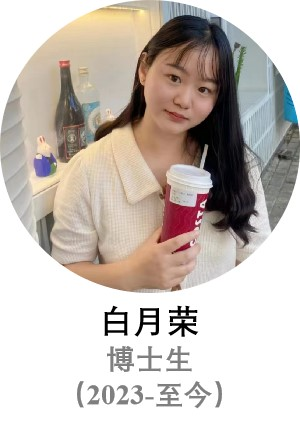
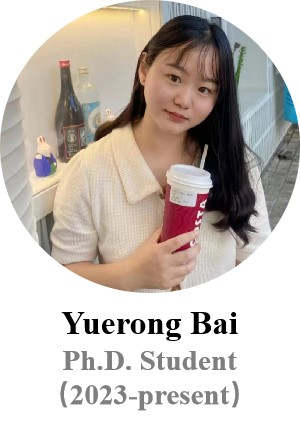
1

Changed region(s): [[0.18, 0.7085, 0.81, 0.9858]]

diff --git a/index.md b/index.md
@@ -2,17 +2,23 @@
 layout: page
 ---
 
-# 邱敏实验室 
+# Qiu Lab 
 <div>
 <img src="/images/teams/group1.jpg" class="floatpic" width="1500" height="800">
 </div>>
-欢迎访问 **邱敏实验室**.
 
-我们致力于开发基于核酸的治疗方法，并通过合成脂质纳米粒子来实现这一目标。我们的研究团队由充满热情和创新精神的科学家组成，专注于探索前沿生物技术，推动医学进步。无论是RNA疫苗、基因治疗还是其他核酸药物，我们都在不断努力，为改善人类健康做出贡献。欢迎访问我们的实验室主页，了解更多关于我们最新研究进展和成果的信息。
+
+We are dedicated to developing nucleic acid-based therapies, achieving this goal through the synthesis of lipid nanoparticles. Our research team, composed of passionate and innovative scientists, focuses on exploring cutting-edge biotechnology to advance medical progress. Whether it's RNA vaccines, gene therapy, or other nucleic acid drugs, we are constantly striving to contribute to improving human health. Visit our lab's homepage to learn more about our latest research developments and achievements.
+
+
+
+
+
+
 
 ---
 
-## 重点成果
+## Highlight
 <head>
     <meta charset="UTF-8">
     <meta name="viewport" content="width=device-width, initial-scale=1.0">
@@ -27,7 +33,7 @@ layout: page
         }
         .image {
             width: 100%;
-            max-width: 2000px; /* 调整图像的最大宽度 */
+            max-width: 200px; /* 调整图像的最大宽度 */
             height: auto;
             margin: 10px;
             border: 1px solid #ccc;
@@ -68,32 +74,4 @@ layout: page
 </body>
 
 
-
-[//]: # (- Qiu, M.#; Tang, Y.#,*, Chen, J. #; Muriph, R.; Ye, Z.; Huang, C.; Evans, J.; Henske, E.*; Xu, Q.*, Lung-selected mRNA delivery of synthetic lipid nanoparticles for the treatment of pulmonary lymphangioleiomyomatosis. Proc. Natl. Acad. Sci. U. S. A. 2022, 119, e2116271119. ESI Highly Cited Paper.)
-
-[//]: # (- Qiu, M.#; Glass, Z.#; Chen, J.; Haas, M.; Jin, X.; Zhao, X.; Rui, X.; Ye, Z.; Li, Y.; Zhang, F; Xu, Q.*, Lipid nanoparticle-mediated codelivery of Cas9 mRNA and single guide RNA achieves liver-specific in vivo genome editing of Angptl3. Proc. Natl. Acad. Sci. U. S. A. 2021, 118, e2020401118. ESI Highly Cited Paper. )
-[//]: # (## 最新动态)
-
-[//]: # ()
-[//]: # (- **05-2024：**xxx论文发表 🎉)
-
-[//]: # ()
-
-[//]: # (- **April 2024：**Our work *BLEGuard* has been accepted to [MobiSys 2024]&#40;https://www.sigmobile.org/mobisys/2024/&#41; as a poster paper. See you in Japan!)
-
-[//]: # (- **March 2024：**Very excited to get a MPhil offer from Engineering department at Cambridge University!)
-
-[//]: # (- **Dec 2023：**Very excited to be selected as [AAAI-24 UC Scholar]&#40;https://aaai.org/aaai-conference/undergraduate-consortium-program/&#41;. See you in Canada!)
-
-[//]: # (- **Dec 2023：**Got a MSc offer from the physics department of Imperial College London.)
-
-[//]: # (- **Aug 2023：**Happy to be awarded the FEPG Scholarship.)
-
-[//]: # (- **May 2023：**Happy to be awarded the XiamenAir Scholarship.)
-
-[//]: # (- **May 2023：**Collected the Finalist Award in MCM 2023 &#40;Top 1%&#41;.)
-
-[//]: # (- **Jun 2022：**Started research programme at [Cambridge AI Group]&#40;https://www.cl.cam.ac.uk/research/ai/&#41;, advised by Prof. Pietro Liò.)
-
-[//]: # (<blockquote class="twitter-tweet"><p lang="en" dir="ltr">Thrilled to be an AAAI-UC Scholar at <a href="https://twitter.com/hashtag/AAAI24?src=hash&amp;ref_src=twsrc%5Etfw">#AAAI24</a>, thanks to <a href="https://twitter.com/hashtag/AAAI?src=hash&amp;ref_src=twsrc%5Etfw">#AAAI</a> &amp; <a href="https://twitter.com/hashtag/GoogleExploreCSR?src=hash&amp;ref_src=twsrc%5Etfw">#GoogleExploreCSR</a> for the sponsorship. Grateful for the knowledge gained and new friendships formed.<br><br>Wonderful trip in Vancouver. Looking forward to staying connected with all.<a href="https://twitter.com/hashtag/AAAI24?src=hash&amp;ref_src=twsrc%5Etfw">#AAAI24</a> <a href="https://twitter.com/hashtag/Vancouver?src=hash&amp;ref_src=twsrc%5Etfw">#Vancouver</a> <a href="https://twitter.com/hashtag/GoogleExploreCSR?src=hash&amp;ref_src=twsrc%5Etfw">#GoogleExploreCSR</a> <a href="https://t.co/wUQUp8XlSM">pic.twitter.com/wUQUp8XlSM</a></p>&mdash; Hanlin CAI &#40;seeking a PhD position 2025&#41; &#40;@lancecai2002&#41; <a href="https://twitter.com/lancecai2002/status/1762210025173344260?ref_src=twsrc%5Etfw">February 26, 2024</a></blockquote> <script async src="https://platform.twitter.com/widgets.js" charset="utf-8"></script>)
 

diff --git a/awards.md b/awards.md
@@ -1,12 +1,11 @@
 ---
 layout: page
 permalink: /awards/index.html
-title: 研究方向
+title: Research
 ---
 <head>
     <meta charset="UTF-8">
     <meta name="viewport" content="width=device-width, initial-scale=1.0">
-    <title>实验室研究方向</title>
     <style>
         body {
             font-family: Arial, sans-serif;
@@ -21,7 +20,7 @@ title: 研究方向
             text-align: center;
         }
         .research-direction {
-            margin-bottom: 30px;
+            margin-bottom: 26px;
         }
         .research-direction h2 {
             color: #007bff;
@@ -34,25 +33,26 @@ title: 研究方向
 </head>
 <body>
     <div>
-        <h1>实验室研究方向</h1>
+        <h1>Research</h1>
         <img src="/images/lnp-sc.jpg" alt="lnp">
     </div>
     <div class="research-section">
         <div class="research-direction">
-        <p>我们实验室主要从事核酸纳米药物的研发，通过开发器官/组织/细胞靶向性纳米载体，将核酸（mRNA，CRISPR-Cas9，siRNA，DNA等）精准递送到病灶部位，探索核酸纳米药物在遗传性疾病、代谢性疾病和癌症等重大疾病治疗中的应用研究。主要研究方向包括：</p>
+        <p>The Qiu Lab at Fudan University focuses on the development of the next-generation of non-viral nanoparticle delivery systems and their application in the treatment of a variety of diseases, including cancer and inherited disease. The specific research topics of our lab include:</p>
         </div>
-        <div class="research-direction">
-            <h3>1. 组织和细胞特异性纳米递送系统的设计开发</h3>
-            <p>通过设计和开发脂质纳米颗粒和功能性高分子纳米载体，实现组织和细胞特异性的核酸递送。</p>
-        </div>
-        <div class="research-direction">
-            <h3>2. 核酸靶向递送及生物医学应用</h3>
-            <p>探索各种核酸（如mRNA、DNA、siRNA、CRISPR-Cas基因编辑工具）在疾病治疗中的靶向递送机制和生物医学应用。</p>
-        </div>
-        <div class="research-direction">
-            <h3>3. 纳米蛋白冠的检测分析方法及其化学生物学效应</h3>
-            <p>研究纳米蛋白冠的检测分析方法，探究其在核酸递送过程中的化学生物学效应。</p>
-        </div>
+    <div class="research-direction">
+    <h3>1. Design and Development of Tissue and Cell-Specific Nano Delivery Systems</h3>
+    <p>Designing and developing lipid nanoparticles and functional polymeric nanocarriers to achieve tissue and cell-specific nucleic acid delivery.</p>
     </div>
+    <div class="research-direction">
+    <h3>2. Targeted Delivery of Nucleic Acids and Biomedical Applications</h3>
+    <p>Exploring the mechanisms and biomedical applications of targeted delivery of various nucleic acids (such as mRNA, DNA, siRNA, and CRISPR-Cas gene editing tools) in disease treatment.</p>
+    </div>
+    <div class="research-direction">
+    <h3>3. Detection and Analysis Methods of Nano-Protein Corona and Its Chemobiological Effects</h3>
+    <p>Studying the detection and analysis methods of nano-protein corona and investigating its chemobiological effects in the process of nucleic acid delivery.</p>
+    </div>
+</div>
+
 </body>
 

diff --git a/teams.md b/teams.md
@@ -1,12 +1,12 @@
 ---
 layout: page
 permalink: /teams/index.html
-title: 团队成员
+title: Team
 ---
 
-## 课题组长
+## PRINCIPAL INVESTIGATOR
 <head>
-    <title>课题组长</title>
+    <title>PRINCIPAL INVESTIGATOR</title>
     <style>
         .container {
             display: flex;
@@ -32,16 +32,16 @@ title: 团队成员
     <div class="container">
         <img src="/images/teams/qiumin.jpg" alt="邱敏">
         <div class="text">
-            <h1>邱敏</h1>
-            <p>青年研究员，博士生导师<br>复旦大学人类表型组研究院<br>张江mRNA国际创新中心</p>
+            <h1>Min Qiu</h1>
+            <p>Human Phenome Institute, Fudan University<br>Member, mRNA Innovation and Translation Center<br>
         </div>
     </div>
 </body>
 
-邱敏博士目前是复旦大学人类表型组研究院青年研究员、博士生导师，上海张江mRNA国际创新中心研究团队成员。2013年毕业于青岛科技大学获高分子材料与工程和英语双学士学位；2018年在苏州大学获高分子化学与物理专业博士学位；2018年至2021年在美国塔夫茨大学生物医学工程系从事博士后研究。2021年12月加入复旦大学人类表型组研究院组建核酸纳米药物研究课题组，主要从事新型组织和细胞靶向脂质纳米颗粒的开发及其在生物医学中的应用研究。
+Min Qiu is a principal investigator in the Human Phenome Institute at Fudan University, and member of the mRNA Innovation and Translation Center. He obtained his Doctoral Degree at Soochow University and did his postdoctoral training in the lab of Professor Qiaobing Xu in the department of Biomedical Engineering at Tufts University. In 2021, Dr. Min Qiu joined the Human Phenome Institute, where he runs an interdisciplinary research group focused on developing tissue and/or cell targeting lipid nanoparticles for application to vaccines, gene editing, immuno and cellular therapeutics.
 
 
-## 团队成员 ##
+## Team ##
 
 <style>
     .container2 {
@@ -67,7 +67,7 @@ title: 团队成员
 
 ---
 
-## 成员照片
+## Photos
 <div>
 <img src="/images/teams/group1.jpg" alt="图片1">
 </div>

diff --git a/blogs.md b/blogs.md
@@ -1,13 +1,12 @@
 ---
 layout: page
 permalink: /blogs/index.html
-title: 联系我们
+title: Contact
 ---
 <html lang="zh-CN">
 <head>
     <meta charset="UTF-8">
     <meta name="viewport" content="width=device-width, initial-scale=1.0">
-    <title>联系邱敏老师</title>
     <style>
         body {
             font-family: Arial, sans-serif;
@@ -22,7 +21,7 @@ title: 联系我们
             text-align: center;
         }
         .contact-info {
-            margin-bottom: 30px;
+            margin-bottom: 2px;
         }
         .contact-info h2 {
             color: #007bff;
@@ -34,18 +33,19 @@ title: 联系我们
 </head>
 <body>
     <div class="contact-section">
-        <h1>联系我们</h1>
-            <p>邱敏课题组拟长期开展生物医学工程、材料科学与工程，细胞和免疫治疗等交叉学科的基础与应用基础研究。请有意向加入本课题组的博士后、博士生、硕士生或本科生，直接联系我们。</p>
+        <h1>Contact</h1>
+            <p>We are always looking for highly motivated individuals (postdoctoral fellows and graduate students) who are passionate about science and research. If you are interested in joining our team, you are welcome to send us an email (mqiu@fudan.edu.cn) or drop by our lab to have a chat.
+</p>
         <div class="contact-info">
-            <h3>联系人</h3>
-            <p>邱敏老师</p>
+            <h3>Contact</h3>
+            <p>Min Qiu</p>
         </div>
         <div class="contact-info">
-            <h3>办公地址</h3>
-            <p>上海市浦东新区金科路4560号金创大厦2号楼1219室</p>
+            <h3>Address</h3>
+            <p>Human Phenome Institute, Fudan University<br>4560 Jinke Road, Pudong District, Shanghai</p>
         </div>
         <div class="contact-info">
-            <h3>电子邮件</h3>
+            <h3>Email</h3>
             <p>Email：<a href="mailto:mqiu@fudan.edu.cn">mqiu@fudan.edu.cn</a></p>
         </div>
     </div>

diff --git a/publications.md b/publications.md
@@ -1,7 +1,7 @@
 ---
 layout: page
 permalink: /publications/index.html
-title: 研究成果
+title: Publication
 ---
 <h1>研究成果</h1>
 > 更新时间: 2024年6月4日&nbsp; 
